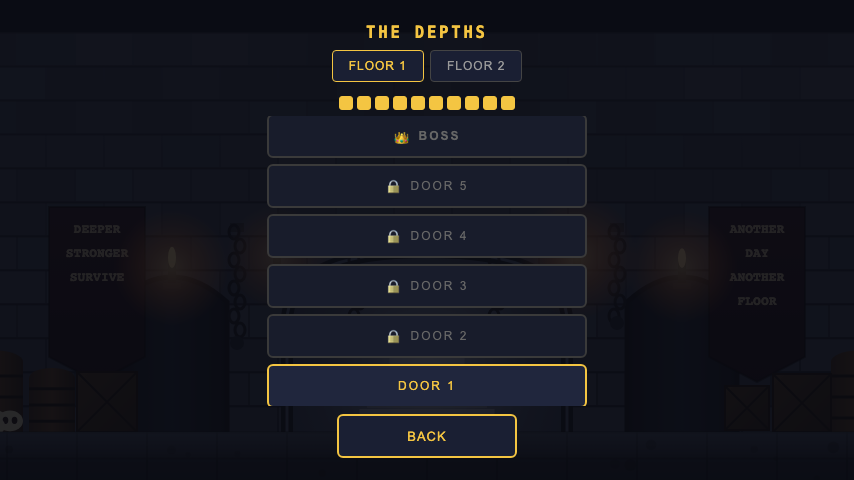
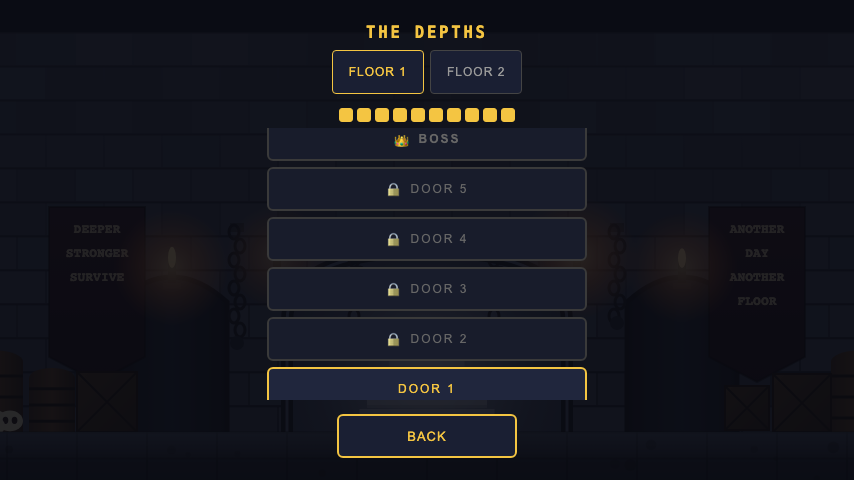
fix: bind the title screen at boot; touch-sized tabs and roster actions; Meta.buyIso
Critical: the title screen's five nav buttons only ever got their onclick
bound inside Screens.renderTitle(), which only runs when some Screens.*
function has already executed -- nothing did that on a real page load, so
CAMPAIGN/ARENA/ROSTER/KIOSK/EXHIBITION/SOUND were all dead despite #title
visually showing. Added G.bootScreens(), deferred to the first
requestAnimationFrame callback (calling it synchronously inside init()
hits a TDZ ReferenceError on Screens, since 85_screens.js hasn't
evaluated yet at that point in the concatenated script -- caught this via
--unit erroring with "Test is not defined").

Important: floor tabs bumped to a real 44px touch height; roster cards
restructured from a 2-column grid of stacked 26px buttons to full-width
rows with a horizontal 44px+ action bar, verified at 4 champions with no
scroll.

Minor: added Meta.buyIso() (200 gold -> 60 iso, refuses when short) in
12_meta.js; the shop's ISO PACK button now calls it instead of Screens
reusing Rewards.grant with a negative gold amount.

diff --git a/index.html b/index.html
@@ -30,10 +30,10 @@ canvas{display:block;image-rendering:pixelated;background:#101422}
 .sub{font-size:11px;color:#999;margin:0 0 10px}
 .scr{box-sizing:border-box;text-align:center;padding:10px 14px;width:820px;max-width:96vw;max-height:456px;overflow:hidden;display:flex;flex-direction:column}
 .scr h2{margin:0 0 8px;font-size:17px;letter-spacing:3px;color:#f4c542;text-transform:uppercase;transform:scaleX(.92)}
-.backbtn{margin-top:8px;width:180px;min-height:44px;align-self:center;padding:10px;font-size:13px;letter-spacing:1px;background:#1a1f33;color:#f4c542;border:2px solid #f4c542;border-radius:6px}
+.backbtn{margin-top:14px;width:180px;min-height:44px;align-self:center;padding:10px;font-size:13px;letter-spacing:1px;background:#1a1f33;color:#f4c542;border:2px solid #f4c542;border-radius:6px;flex:none}
 .curstrip{display:flex;gap:14px;justify-content:center;font-size:12px;color:#f4c542;margin:0 0 10px;flex-wrap:wrap}
 .ftabs{display:flex;gap:6px;justify-content:center;margin-bottom:8px}
-.ftab{min-height:32px;padding:6px 16px;font-size:12px;letter-spacing:1px;background:#1a1f33;color:#999;border:1px solid #444;border-radius:4px}
+.ftab{min-height:44px;padding:6px 16px;font-size:12px;letter-spacing:1px;background:#1a1f33;color:#999;border:1px solid #444;border-radius:4px}
 .ftab.active{color:#f4c542;border-color:#f4c542}
 .path{display:flex;flex-direction:column-reverse;align-items:center;gap:6px;overflow:hidden;flex:1;justify-content:center}
 .node{width:320px;max-width:84%;min-height:44px;display:flex;align-items:center;justify-content:center;gap:6px;
@@ -46,22 +46,28 @@ canvas{display:block;image-rendering:pixelated;background:#101422}
 .energy{display:flex;gap:4px;justify-content:center;margin:6px 0}
 .pip{width:14px;height:14px;border-radius:3px;background:#2a2a2a;border:1px solid #555}
 .pip.full{background:#f4c542;border-color:#f4c542}
-.cards{display:grid;grid-template-columns:repeat(2,1fr);gap:10px;overflow:hidden;flex:1}
-.card{box-sizing:border-box;background:#181c2b;border:2px solid #333;border-radius:8px;padding:8px;display:flex;gap:8px;align-items:flex-start;text-align:left}
+/* Fix round 1: cards are a single-column, full-width row (portrait | info | action row) instead of
+   a 2-column grid of tall cards -- a 2-column layout could only fit 3 stacked action buttons at
+   26px each; a single wide row fits the same 3 actions SIDE BY SIDE at a real 44px+ touch height,
+   and still stacks up to 4 champions (carl/katia/donut/mongo) at 854x480 with no scroll. */
+.cards{display:flex;flex-direction:column;gap:8px;overflow:hidden;flex:1;justify-content:flex-start}
+.card{box-sizing:border-box;background:#181c2b;border:2px solid #333;border-radius:8px;padding:8px 10px;display:flex;align-items:center;gap:10px;text-align:left}
 .card.active{border-color:#f4c542}
 .card canvas{width:52px;height:52px;flex:none;background:#101422;border-radius:4px}
-.card .info{flex:1;min-width:0}
+.card .info{flex:1 1 auto;min-width:0}
 .card .name{font-size:12px;color:#fff;font-weight:bold;letter-spacing:1px}
-.card .stars{color:#f4c542;font-size:11px;margin-top:2px}
-.card .pips{display:flex;gap:2px;margin:3px 0}
-.card .rp{display:inline-block;width:8px;height:8px;border-radius:50%;background:#333;border:1px solid #555}
+.card .stars{color:#f4c542;font-size:11px;margin-left:6px}
+.card .rankline{display:flex;align-items:center;gap:8px;margin:3px 0}
+.card .pips{display:flex;gap:2px}
+.card .rp{display:inline-block;width:7px;height:7px;border-radius:50%;background:#333;border:1px solid #555}
 .card .rp.on{background:#7fb0a8;border-color:#7fb0a8}
 .card .lvl{font-size:10px;color:#bbb}
-.card .xpbar{height:5px;background:#333;border-radius:3px;overflow:hidden;margin:3px 0}
+.card .xpbar{height:5px;background:#333;border-radius:3px;overflow:hidden;max-width:240px}
 .card .xpbar i{display:block;height:100%;background:#f4c542}
-.card button{display:block;font-size:9px;letter-spacing:.5px;padding:8px 4px;min-height:26px;margin:2px 0;width:100%;border-radius:4px;background:#1a1f33;color:#f4c542;border:1px solid #f4c542;font-family:inherit}
-.card button:disabled{opacity:.3}
-.card button.select{background:#f4c542;color:#111}
+.card .actions{flex:0 0 auto;display:flex;gap:6px}
+.card .actions button{min-width:96px;min-height:44px;padding:4px 6px;font-size:9px;line-height:1.3;letter-spacing:.3px;border-radius:4px;background:#1a1f33;color:#f4c542;border:1px solid #f4c542;font-family:inherit}
+.card .actions button:disabled{opacity:.3}
+.card .actions button.select{background:#f4c542;color:#111}
 .kcards{display:flex;gap:10px;justify-content:center;flex:1;align-items:flex-start;flex-wrap:wrap;overflow:hidden}
 .kcard{box-sizing:border-box;width:220px;background:#181c2b;border:2px solid #444;border-radius:8px;padding:10px}
 .kcard h3{margin:0 0 4px;font-size:12px;color:#f4c542;letter-spacing:1px}
@@ -186,7 +192,18 @@ const Meta={
       for(const k in d.stats)if(!(k in data.stats))data.stats[k]=d.stats[k];
       if(!data.roster||typeof data.roster!=='object'||!Object.keys(data.roster).length)data.roster=d.roster;
       return data}
-    return Meta.defaults()}};
+    return Meta.defaults()},
+  // Fix round 1 (Task 4.5 controller review, Minor): the SPONSOR PERK KIOSK's ISO PACK (200 gold ->
+  // 60 iso) has no dedicated Meta function of its own yet -- added here rather than left as a
+  // Screens-side Rewards.grant({gold:-200,...}) reuse, same refuse-when-short/deduct-then-Save.put
+  // shape as Roster.levelUp/rankUp right below.
+  buyIso(){
+    const cost=200,gain=60;
+    if((Save.data.gold||0)<cost)return false;
+    Save.data.gold-=cost;
+    Save.data.iso=(Save.data.iso||0)+gain;
+    Save.put();
+    return true}};
 const Stats={
   caps:{stars:[1,5],rank:stars=>stars,level:rank=>10*rank},
   xpToLevel(level){return 40*level},
@@ -3183,6 +3200,13 @@ const G={state:'TITLE',fight:null,encounter:null,acc:0,last:0,sim:false,debug:fa
     else{this.show('pauseMenu',false);this.show('result',false);this.show('btns',false);this.show('title',true)}},
   backToOrigin(){this.state='TITLE';this.fight=null;this.encounter=null;this.cinemFocus=null;
     if(typeof Screens!=='undefined')Screens.toOrigin();else this.toTitle()},
+  // Fix round 1 (controller review, Critical): the title screen's own buttons only ever get their
+  // onclick bound inside Screens.renderTitle(), which only runs when some Screens.* function
+  // actually executes -- on a real page load nothing called one (the initial HTML markup already
+  // carries #title's 'show' class, so it LOOKED right, but every CAMPAIGN/ARENA/ROSTER/KIOSK/
+  // EXHIBITION/SOUND button was dead: .onclick===null). init() now calls this once at boot, after
+  // every other binding, so Screens.show('title') runs exactly once with a real DOM and binds them.
+  bootScreens(){if(typeof Screens!=='undefined')Screens.show('title')},
   // Steps the sim one tick, handling KO slow-mo (step every 4th tick while fight.slowmo>0) and
   // draining fight.fx into FX after any step. No rAF/wall-clock dependency, so tests can call it
   // directly. G.loop drives this once per accumulated STEP; simFrames/stepFrame delegate to it too.
@@ -3300,7 +3324,14 @@ const G={state:'TITLE',fight:null,encounter:null,acc:0,last:0,sim:false,debug:fa
     document.getElementById('titleMute').onclick=e=>{Audio.muted=!Audio.muted;Save.data.mute=Audio.muted;Save.put();
       e.target.textContent='SOUND: '+(Audio.muted?'OFF':'ON')};
     document.addEventListener('visibilitychange',()=>{if(document.hidden&&this.state==='FIGHT')this.togglePause()});
-    requestAnimationFrame(t=>{this.last=t;this.loop(t)})}};
+    // bootScreens() must NOT be called synchronously here: init() (and the `G.init();` call below
+    // that runs it) executes mid-parse, at the point the script has only gotten through this file --
+    // 85_screens.js's `const Screens=...` hasn't run yet, so even `typeof Screens` would still throw
+    // (a TDZ reference, not a plain "undefined") and take the whole script down before 90_tests.js's
+    // Test.add calls ever ran (fix round 1, Critical: this exact crash, caught by --unit erroring
+    // with "Test is not defined" once bootScreens() was first added here directly). Deferred one
+    // frame instead, same as every button's onclick already safely is.
+    requestAnimationFrame(t=>{this.last=t;this.bootScreens();this.loop(t)})}};
 G.init();
 
 'use strict';
@@ -3414,6 +3445,9 @@ const Screens={
       const p=document.createElement('div');p.className='pip'+(i<e.n?' full':'');erow.appendChild(p)}
     document.getElementById('mapBack').onclick=()=>Screens.title()},
   // ---- roster --------------------------------------------------------------------------------
+  // Fix round 1 (controller review, Important): cards are a single-column, full-width row --
+  // portrait | info | a horizontal action row -- so LEVEL UP/RANK UP/SELECT can be real 44px+
+  // touch targets side by side, instead of the old 2-column grid's 3 stacked 26px buttons.
   renderRoster(){
     const wrap=document.getElementById('rosterCards');wrap.innerHTML='';
     for(const id of Object.keys(Save.data.roster)){
@@ -3425,12 +3459,13 @@ const Screens={
       const xpNeed=Stats.xpToLevel(entry.level+1);
       const pct=atCap?100:Math.max(0,Math.min(100,Math.round(100*entry.xp/xpNeed)));
       info.innerHTML=
-        '<div class="name">'+def.name+'</div>'+
-        '<div class="stars">'+'★'.repeat(entry.stars)+'☆'.repeat(5-entry.stars)+'</div>'+
-        '<div class="pips">'+Array.from({length:entry.stars},(_,i)=>
-          '<span class="rp'+(i<entry.rank?' on':'')+'"></span>').join('')+'</div>'+
-        '<div class="lvl">LVL '+entry.level+(atCap?' (MAX)':'')+'</div>'+
+        '<div class="name">'+def.name+'<span class="stars">'+
+          '★'.repeat(entry.stars)+'☆'.repeat(5-entry.stars)+'</span></div>'+
+        '<div class="rankline"><span class="pips">'+Array.from({length:entry.stars},(_,i)=>
+          '<span class="rp'+(i<entry.rank?' on':'')+'"></span>').join('')+
+          '</span><span class="lvl">LVL '+entry.level+(atCap?' (MAX)':'')+'</span></div>'+
         '<div class="xpbar"><i style="width:'+pct+'%"></i></div>';
+      const actions=document.createElement('div');actions.className='actions';
       const lvlCost=10*entry.level;
       const lvlBtn=document.createElement('button');
       lvlBtn.textContent='LEVEL UP ('+lvlCost+' ISO)';
@@ -3447,8 +3482,8 @@ const Screens={
       selBtn.textContent=isActive?'ACTIVE':'SELECT';
       selBtn.disabled=isActive;
       selBtn.onclick=()=>{Roster.setActive(id);Screens.refresh()};
-      info.appendChild(lvlBtn);info.appendChild(rankBtn);info.appendChild(selBtn);
-      card.appendChild(portrait);card.appendChild(info);
+      actions.appendChild(lvlBtn);actions.appendChild(rankBtn);actions.appendChild(selBtn);
+      card.appendChild(portrait);card.appendChild(info);card.appendChild(actions);
       wrap.appendChild(card)}
     document.getElementById('rosterBack').onclick=()=>Screens.title()},
   // ---- crystal (open) -------------------------------------------------------------------------
@@ -3514,11 +3549,9 @@ const Screens={
     if(!rv||rv.frame>=Screens.REVEAL_FRAMES)return;
     rv.frame++;Screens.drawReveal(rv)},
   // ---- shop (SPONSOR PERK KIOSK) --------------------------------------------------------------
-  // ISO PACK isn't a Crystal.KINDS entry (no draw, just a currency conversion), so it has no
-  // dedicated Meta function of its own -- Rewards.grant already applies signed currency deltas
-  // unconditionally, so a -200 gold/+60 iso grant is exactly a purchase, without adding a new
-  // Meta-layer function for one card. Affordability is still checked here (read-only) before
-  // calling it, same as every other buy button.
+  // ISO PACK isn't a Crystal.KINDS entry (no draw, just a currency conversion) -- Meta.buyIso()
+  // (fix round 1) is the dedicated Meta function for it, cost/gain kept here only for the card's
+  // own cost text and affordability check (both read-only).
   ISO_PACK:{cost:{gold:200},iso:60},
   renderShop(){
     const cur=document.getElementById('shopCurrency');
@@ -3540,10 +3573,7 @@ const Screens={
     mk('buyPremium','PREMIUM CRYSTAL',Crystal.KINDS.premium.cost,Screens.canAfford('premium'),
       ()=>Screens.openCrystal('premium'));
     const isoAfford=(Save.data.gold||0)>=Screens.ISO_PACK.cost.gold;
-    mk('buyIso','ISO PACK',Screens.ISO_PACK.cost,isoAfford,()=>{
-      if((Save.data.gold||0)<Screens.ISO_PACK.cost.gold)return;
-      Rewards.grant({gold:-Screens.ISO_PACK.cost.gold,iso:Screens.ISO_PACK.iso});
-      Screens.refresh()});
+    mk('buyIso','ISO PACK',Screens.ISO_PACK.cost,isoAfford,()=>{Meta.buyIso();Screens.refresh()});
     document.getElementById('shopBack').onclick=()=>Screens.title()},
   // ---- arena ---------------------------------------------------------------------------------
   renderArena(){
@@ -4764,6 +4794,14 @@ Test.add('every Phase 4 screen\'s DOM ids exist',()=>{
     'arenaStreak','arenaBest','arenaEnemy','arenaFight','arenaBack',
     'resultTitle','resultLine','again','resultTitleBtn'];
   for(const id of ids)ok(document.getElementById(id),'#'+id+' must exist')});
+Test.add('G.bootScreens() binds the title screen\'s buttons on real page load (fix round 1, Critical: they were unbound until some other Screens.* function had run once -- Screens.renderTitle is the only place they get an onclick, and nothing called any Screens function at boot)',()=>{
+  Screens._current=null;                       // simulate a fresh load: no Screens.* has rendered yet
+  document.getElementById('btnCampaign').onclick=null;
+  G.bootScreens();
+  ok(typeof document.getElementById('btnCampaign').onclick==='function','CAMPAIGN must be bound after boot');
+  document.getElementById('btnCampaign').click();
+  eq(Screens._current,'map','clicking the now-bound button must actually show the map screen');
+  G.toTitle()});
 Test.add('G.toTitle() shows the title screen only (every other Phase 4 overlay and pauseMenu hidden)',()=>{
   Save.data=Meta.defaults();
   Screens.show('roster'); // start from some other screen so this isn't a no-op
@@ -4860,7 +4898,15 @@ Test.add('shop BASIC CRYSTAL opens a crystal immediately on buy (ruling: buy == 
   ok(JSON.stringify(Save.data.roster)!==before,'roster must change (new champ or shards) via Crystal.open');
   eq(Screens._current,'crystal','buying navigates to the crystal screen to show the reveal');
   Screens.title()});
-Test.add('shop ISO PACK converts 200 gold into 60 iso via Rewards.grant (a screen may only mutate Save.data through a Meta function)',()=>{
+Test.add('Meta.buyIso converts 200 gold into 60 iso, refuses when short (fix round 1: was Screens reusing Rewards.grant with negative gold)',()=>{
+  Save.data=Meta.defaults();Save.data.gold=500;
+  ok(Meta.buyIso());
+  eq(Save.data.gold,300);eq(Save.data.iso,60);
+  Save.data.gold=100;
+  const before=JSON.stringify(Save.data);
+  eq(Meta.buyIso(),false,'short on gold');
+  eq(JSON.stringify(Save.data),before)});
+Test.add('shop ISO PACK buy button calls Meta.buyIso',()=>{
   Save.data=Meta.defaults();Save.data.gold=500;
   Screens.shop();
   document.getElementById('buyIso').click();

diff --git a/src/00_head.html b/src/00_head.html
@@ -30,10 +30,10 @@ canvas{display:block;image-rendering:pixelated;background:#101422}
 .sub{font-size:11px;color:#999;margin:0 0 10px}
 .scr{box-sizing:border-box;text-align:center;padding:10px 14px;width:820px;max-width:96vw;max-height:456px;overflow:hidden;display:flex;flex-direction:column}
 .scr h2{margin:0 0 8px;font-size:17px;letter-spacing:3px;color:#f4c542;text-transform:uppercase;transform:scaleX(.92)}
-.backbtn{margin-top:8px;width:180px;min-height:44px;align-self:center;padding:10px;font-size:13px;letter-spacing:1px;background:#1a1f33;color:#f4c542;border:2px solid #f4c542;border-radius:6px}
+.backbtn{margin-top:14px;width:180px;min-height:44px;align-self:center;padding:10px;font-size:13px;letter-spacing:1px;background:#1a1f33;color:#f4c542;border:2px solid #f4c542;border-radius:6px;flex:none}
 .curstrip{display:flex;gap:14px;justify-content:center;font-size:12px;color:#f4c542;margin:0 0 10px;flex-wrap:wrap}
 .ftabs{display:flex;gap:6px;justify-content:center;margin-bottom:8px}
-.ftab{min-height:32px;padding:6px 16px;font-size:12px;letter-spacing:1px;background:#1a1f33;color:#999;border:1px solid #444;border-radius:4px}
+.ftab{min-height:44px;padding:6px 16px;font-size:12px;letter-spacing:1px;background:#1a1f33;color:#999;border:1px solid #444;border-radius:4px}
 .ftab.active{color:#f4c542;border-color:#f4c542}
 .path{display:flex;flex-direction:column-reverse;align-items:center;gap:6px;overflow:hidden;flex:1;justify-content:center}
 .node{width:320px;max-width:84%;min-height:44px;display:flex;align-items:center;justify-content:center;gap:6px;
@@ -46,22 +46,28 @@ canvas{display:block;image-rendering:pixelated;background:#101422}
 .energy{display:flex;gap:4px;justify-content:center;margin:6px 0}
 .pip{width:14px;height:14px;border-radius:3px;background:#2a2a2a;border:1px solid #555}
 .pip.full{background:#f4c542;border-color:#f4c542}
-.cards{display:grid;grid-template-columns:repeat(2,1fr);gap:10px;overflow:hidden;flex:1}
-.card{box-sizing:border-box;background:#181c2b;border:2px solid #333;border-radius:8px;padding:8px;display:flex;gap:8px;align-items:flex-start;text-align:left}
+/* Fix round 1: cards are a single-column, full-width row (portrait | info | action row) instead of
+   a 2-column grid of tall cards -- a 2-column layout could only fit 3 stacked action buttons at
+   26px each; a single wide row fits the same 3 actions SIDE BY SIDE at a real 44px+ touch height,
+   and still stacks up to 4 champions (carl/katia/donut/mongo) at 854x480 with no scroll. */
+.cards{display:flex;flex-direction:column;gap:8px;overflow:hidden;flex:1;justify-content:flex-start}
+.card{box-sizing:border-box;background:#181c2b;border:2px solid #333;border-radius:8px;padding:8px 10px;display:flex;align-items:center;gap:10px;text-align:left}
 .card.active{border-color:#f4c542}
 .card canvas{width:52px;height:52px;flex:none;background:#101422;border-radius:4px}
-.card .info{flex:1;min-width:0}
+.card .info{flex:1 1 auto;min-width:0}
 .card .name{font-size:12px;color:#fff;font-weight:bold;letter-spacing:1px}
-.card .stars{color:#f4c542;font-size:11px;margin-top:2px}
-.card .pips{display:flex;gap:2px;margin:3px 0}
-.card .rp{display:inline-block;width:8px;height:8px;border-radius:50%;background:#333;border:1px solid #555}
+.card .stars{color:#f4c542;font-size:11px;margin-left:6px}
+.card .rankline{display:flex;align-items:center;gap:8px;margin:3px 0}
+.card .pips{display:flex;gap:2px}
+.card .rp{display:inline-block;width:7px;height:7px;border-radius:50%;background:#333;border:1px solid #555}
 .card .rp.on{background:#7fb0a8;border-color:#7fb0a8}
 .card .lvl{font-size:10px;color:#bbb}
-.card .xpbar{height:5px;background:#333;border-radius:3px;overflow:hidden;margin:3px 0}
+.card .xpbar{height:5px;background:#333;border-radius:3px;overflow:hidden;max-width:240px}
 .card .xpbar i{display:block;height:100%;background:#f4c542}
-.card button{display:block;font-size:9px;letter-spacing:.5px;padding:8px 4px;min-height:26px;margin:2px 0;width:100%;border-radius:4px;background:#1a1f33;color:#f4c542;border:1px solid #f4c542;font-family:inherit}
-.card button:disabled{opacity:.3}
-.card button.select{background:#f4c542;color:#111}
+.card .actions{flex:0 0 auto;display:flex;gap:6px}
+.card .actions button{min-width:96px;min-height:44px;padding:4px 6px;font-size:9px;line-height:1.3;letter-spacing:.3px;border-radius:4px;background:#1a1f33;color:#f4c542;border:1px solid #f4c542;font-family:inherit}
+.card .actions button:disabled{opacity:.3}
+.card .actions button.select{background:#f4c542;color:#111}
 .kcards{display:flex;gap:10px;justify-content:center;flex:1;align-items:flex-start;flex-wrap:wrap;overflow:hidden}
 .kcard{box-sizing:border-box;width:220px;background:#181c2b;border:2px solid #444;border-radius:8px;padding:10px}
 .kcard h3{margin:0 0 4px;font-size:12px;color:#f4c542;letter-spacing:1px}

diff --git a/src/85_screens.js b/src/85_screens.js
@@ -109,6 +109,9 @@ const Screens={
       const p=document.createElement('div');p.className='pip'+(i<e.n?' full':'');erow.appendChild(p)}
     document.getElementById('mapBack').onclick=()=>Screens.title()},
   // ---- roster --------------------------------------------------------------------------------
+  // Fix round 1 (controller review, Important): cards are a single-column, full-width row --
+  // portrait | info | a horizontal action row -- so LEVEL UP/RANK UP/SELECT can be real 44px+
+  // touch targets side by side, instead of the old 2-column grid's 3 stacked 26px buttons.
   renderRoster(){
     const wrap=document.getElementById('rosterCards');wrap.innerHTML='';
     for(const id of Object.keys(Save.data.roster)){
@@ -120,12 +123,13 @@ const Screens={
       const xpNeed=Stats.xpToLevel(entry.level+1);
       const pct=atCap?100:Math.max(0,Math.min(100,Math.round(100*entry.xp/xpNeed)));
       info.innerHTML=
-        '<div class="name">'+def.name+'</div>'+
-        '<div class="stars">'+'★'.repeat(entry.stars)+'☆'.repeat(5-entry.stars)+'</div>'+
-        '<div class="pips">'+Array.from({length:entry.stars},(_,i)=>
-          '<span class="rp'+(i<entry.rank?' on':'')+'"></span>').join('')+'</div>'+
-        '<div class="lvl">LVL '+entry.level+(atCap?' (MAX)':'')+'</div>'+
+        '<div class="name">'+def.name+'<span class="stars">'+
+          '★'.repeat(entry.stars)+'☆'.repeat(5-entry.stars)+'</span></div>'+
+        '<div class="rankline"><span class="pips">'+Array.from({length:entry.stars},(_,i)=>
+          '<span class="rp'+(i<entry.rank?' on':'')+'"></span>').join('')+
+          '</span><span class="lvl">LVL '+entry.level+(atCap?' (MAX)':'')+'</span></div>'+
         '<div class="xpbar"><i style="width:'+pct+'%"></i></div>';
+      const actions=document.createElement('div');actions.className='actions';
       const lvlCost=10*entry.level;
       const lvlBtn=document.createElement('button');
       lvlBtn.textContent='LEVEL UP ('+lvlCost+' ISO)';
@@ -142,8 +146,8 @@ const Screens={
       selBtn.textContent=isActive?'ACTIVE':'SELECT';
       selBtn.disabled=isActive;
       selBtn.onclick=()=>{Roster.setActive(id);Screens.refresh()};
-      info.appendChild(lvlBtn);info.appendChild(rankBtn);info.appendChild(selBtn);
-      card.appendChild(portrait);card.appendChild(info);
+      actions.appendChild(lvlBtn);actions.appendChild(rankBtn);actions.appendChild(selBtn);
+      card.appendChild(portrait);card.appendChild(info);card.appendChild(actions);
       wrap.appendChild(card)}
     document.getElementById('rosterBack').onclick=()=>Screens.title()},
   // ---- crystal (open) -------------------------------------------------------------------------
@@ -209,11 +213,9 @@ const Screens={
     if(!rv||rv.frame>=Screens.REVEAL_FRAMES)return;
     rv.frame++;Screens.drawReveal(rv)},
   // ---- shop (SPONSOR PERK KIOSK) --------------------------------------------------------------
-  // ISO PACK isn't a Crystal.KINDS entry (no draw, just a currency conversion), so it has no
-  // dedicated Meta function of its own -- Rewards.grant already applies signed currency deltas
-  // unconditionally, so a -200 gold/+60 iso grant is exactly a purchase, without adding a new
-  // Meta-layer function for one card. Affordability is still checked here (read-only) before
-  // calling it, same as every other buy button.
+  // ISO PACK isn't a Crystal.KINDS entry (no draw, just a currency conversion) -- Meta.buyIso()
+  // (fix round 1) is the dedicated Meta function for it, cost/gain kept here only for the card's
+  // own cost text and affordability check (both read-only).
   ISO_PACK:{cost:{gold:200},iso:60},
   renderShop(){
     const cur=document.getElementById('shopCurrency');
@@ -235,10 +237,7 @@ const Screens={
     mk('buyPremium','PREMIUM CRYSTAL',Crystal.KINDS.premium.cost,Screens.canAfford('premium'),
       ()=>Screens.openCrystal('premium'));
     const isoAfford=(Save.data.gold||0)>=Screens.ISO_PACK.cost.gold;
-    mk('buyIso','ISO PACK',Screens.ISO_PACK.cost,isoAfford,()=>{
-      if((Save.data.gold||0)<Screens.ISO_PACK.cost.gold)return;
-      Rewards.grant({gold:-Screens.ISO_PACK.cost.gold,iso:Screens.ISO_PACK.iso});
-      Screens.refresh()});
+    mk('buyIso','ISO PACK',Screens.ISO_PACK.cost,isoAfford,()=>{Meta.buyIso();Screens.refresh()});
     document.getElementById('shopBack').onclick=()=>Screens.title()},
   // ---- arena ---------------------------------------------------------------------------------
   renderArena(){

diff --git a/src/80_game.js b/src/80_game.js
@@ -287,6 +287,13 @@ const G={state:'TITLE',fight:null,encounter:null,acc:0,last:0,sim:false,debug:fa
     else{this.show('pauseMenu',false);this.show('result',false);this.show('btns',false);this.show('title',true)}},
   backToOrigin(){this.state='TITLE';this.fight=null;this.encounter=null;this.cinemFocus=null;
     if(typeof Screens!=='undefined')Screens.toOrigin();else this.toTitle()},
+  // Fix round 1 (controller review, Critical): the title screen's own buttons only ever get their
+  // onclick bound inside Screens.renderTitle(), which only runs when some Screens.* function
+  // actually executes -- on a real page load nothing called one (the initial HTML markup already
+  // carries #title's 'show' class, so it LOOKED right, but every CAMPAIGN/ARENA/ROSTER/KIOSK/
+  // EXHIBITION/SOUND button was dead: .onclick===null). init() now calls this once at boot, after
+  // every other binding, so Screens.show('title') runs exactly once with a real DOM and binds them.
+  bootScreens(){if(typeof Screens!=='undefined')Screens.show('title')},
   // Steps the sim one tick, handling KO slow-mo (step every 4th tick while fight.slowmo>0) and
   // draining fight.fx into FX after any step. No rAF/wall-clock dependency, so tests can call it
   // directly. G.loop drives this once per accumulated STEP; simFrames/stepFrame delegate to it too.
@@ -404,5 +411,12 @@ const G={state:'TITLE',fight:null,encounter:null,acc:0,last:0,sim:false,debug:fa
     document.getElementById('titleMute').onclick=e=>{Audio.muted=!Audio.muted;Save.data.mute=Audio.muted;Save.put();
       e.target.textContent='SOUND: '+(Audio.muted?'OFF':'ON')};
     document.addEventListener('visibilitychange',()=>{if(document.hidden&&this.state==='FIGHT')this.togglePause()});
-    requestAnimationFrame(t=>{this.last=t;this.loop(t)})}};
+    // bootScreens() must NOT be called synchronously here: init() (and the `G.init();` call below
+    // that runs it) executes mid-parse, at the point the script has only gotten through this file --
+    // 85_screens.js's `const Screens=...` hasn't run yet, so even `typeof Screens` would still throw
+    // (a TDZ reference, not a plain "undefined") and take the whole script down before 90_tests.js's
+    // Test.add calls ever ran (fix round 1, Critical: this exact crash, caught by --unit erroring
+    // with "Test is not defined" once bootScreens() was first added here directly). Deferred one
+    // frame instead, same as every button's onclick already safely is.
+    requestAnimationFrame(t=>{this.last=t;this.bootScreens();this.loop(t)})}};
 G.init();

diff --git a/src/90_tests.js b/src/90_tests.js
@@ -1181,6 +1181,14 @@ Test.add('every Phase 4 screen\'s DOM ids exist',()=>{
     'arenaStreak','arenaBest','arenaEnemy','arenaFight','arenaBack',
     'resultTitle','resultLine','again','resultTitleBtn'];
   for(const id of ids)ok(document.getElementById(id),'#'+id+' must exist')});
+Test.add('G.bootScreens() binds the title screen\'s buttons on real page load (fix round 1, Critical: they were unbound until some other Screens.* function had run once -- Screens.renderTitle is the only place they get an onclick, and nothing called any Screens function at boot)',()=>{
+  Screens._current=null;                       // simulate a fresh load: no Screens.* has rendered yet
+  document.getElementById('btnCampaign').onclick=null;
+  G.bootScreens();
+  ok(typeof document.getElementById('btnCampaign').onclick==='function','CAMPAIGN must be bound after boot');
+  document.getElementById('btnCampaign').click();
+  eq(Screens._current,'map','clicking the now-bound button must actually show the map screen');
+  G.toTitle()});
 Test.add('G.toTitle() shows the title screen only (every other Phase 4 overlay and pauseMenu hidden)',()=>{
   Save.data=Meta.defaults();
   Screens.show('roster'); // start from some other screen so this isn't a no-op
@@ -1277,7 +1285,15 @@ Test.add('shop BASIC CRYSTAL opens a crystal immediately on buy (ruling: buy == 
   ok(JSON.stringify(Save.data.roster)!==before,'roster must change (new champ or shards) via Crystal.open');
   eq(Screens._current,'crystal','buying navigates to the crystal screen to show the reveal');
   Screens.title()});
-Test.add('shop ISO PACK converts 200 gold into 60 iso via Rewards.grant (a screen may only mutate Save.data through a Meta function)',()=>{
+Test.add('Meta.buyIso converts 200 gold into 60 iso, refuses when short (fix round 1: was Screens reusing Rewards.grant with negative gold)',()=>{
+  Save.data=Meta.defaults();Save.data.gold=500;
+  ok(Meta.buyIso());
+  eq(Save.data.gold,300);eq(Save.data.iso,60);
+  Save.data.gold=100;
+  const before=JSON.stringify(Save.data);
+  eq(Meta.buyIso(),false,'short on gold');
+  eq(JSON.stringify(Save.data),before)});
+Test.add('shop ISO PACK buy button calls Meta.buyIso',()=>{
   Save.data=Meta.defaults();Save.data.gold=500;
   Screens.shop();
   document.getElementById('buyIso').click();

diff --git a/src/12_meta.js b/src/12_meta.js
@@ -38,7 +38,18 @@ const Meta={
       for(const k in d.stats)if(!(k in data.stats))data.stats[k]=d.stats[k];
       if(!data.roster||typeof data.roster!=='object'||!Object.keys(data.roster).length)data.roster=d.roster;
       return data}
-    return Meta.defaults()}};
+    return Meta.defaults()},
+  // Fix round 1 (Task 4.5 controller review, Minor): the SPONSOR PERK KIOSK's ISO PACK (200 gold ->
+  // 60 iso) has no dedicated Meta function of its own yet -- added here rather than left as a
+  // Screens-side Rewards.grant({gold:-200,...}) reuse, same refuse-when-short/deduct-then-Save.put
+  // shape as Roster.levelUp/rankUp right below.
+  buyIso(){
+    const cost=200,gain=60;
+    if((Save.data.gold||0)<cost)return false;
+    Save.data.gold-=cost;
+    Save.data.iso=(Save.data.iso||0)+gain;
+    Save.put();
+    return true}};
 const Stats={
   caps:{stars:[1,5],rank:stars=>stars,level:rank=>10*rank},
   xpToLevel(level){return 40*level},
